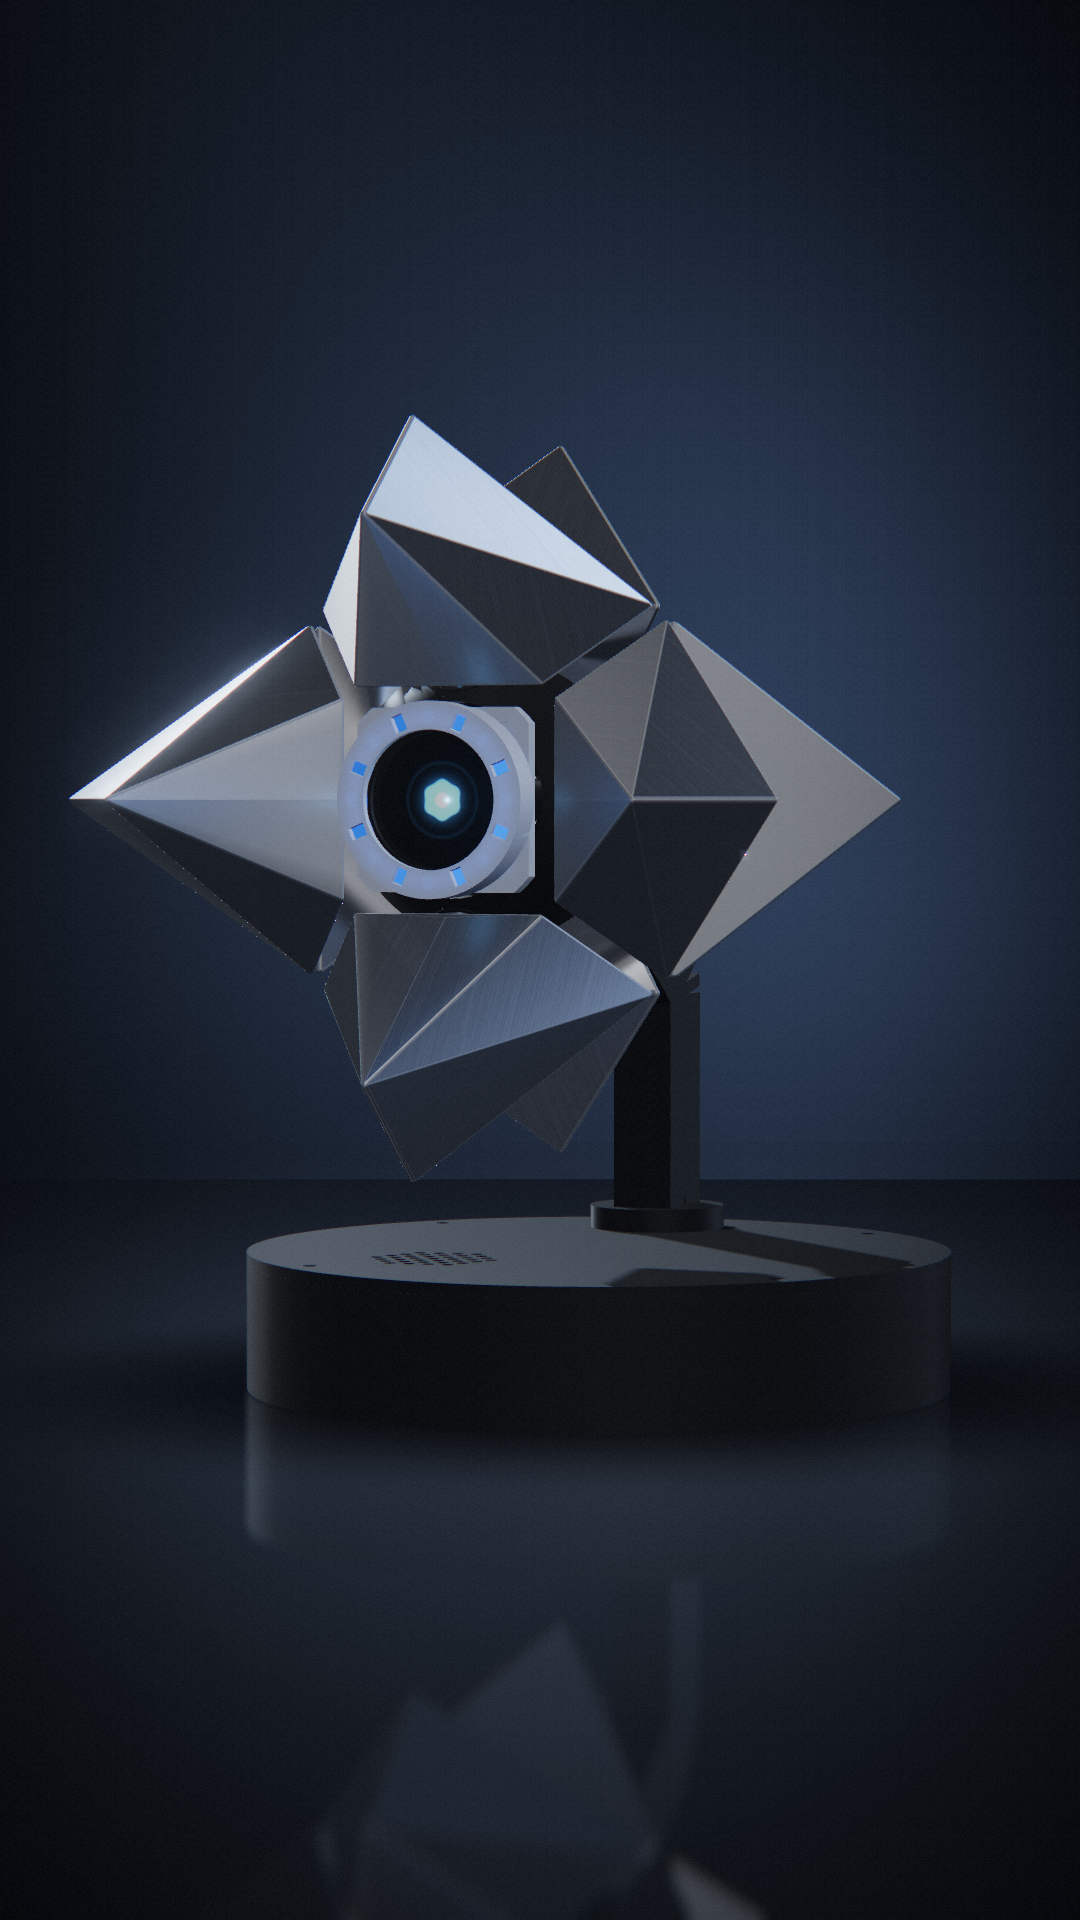
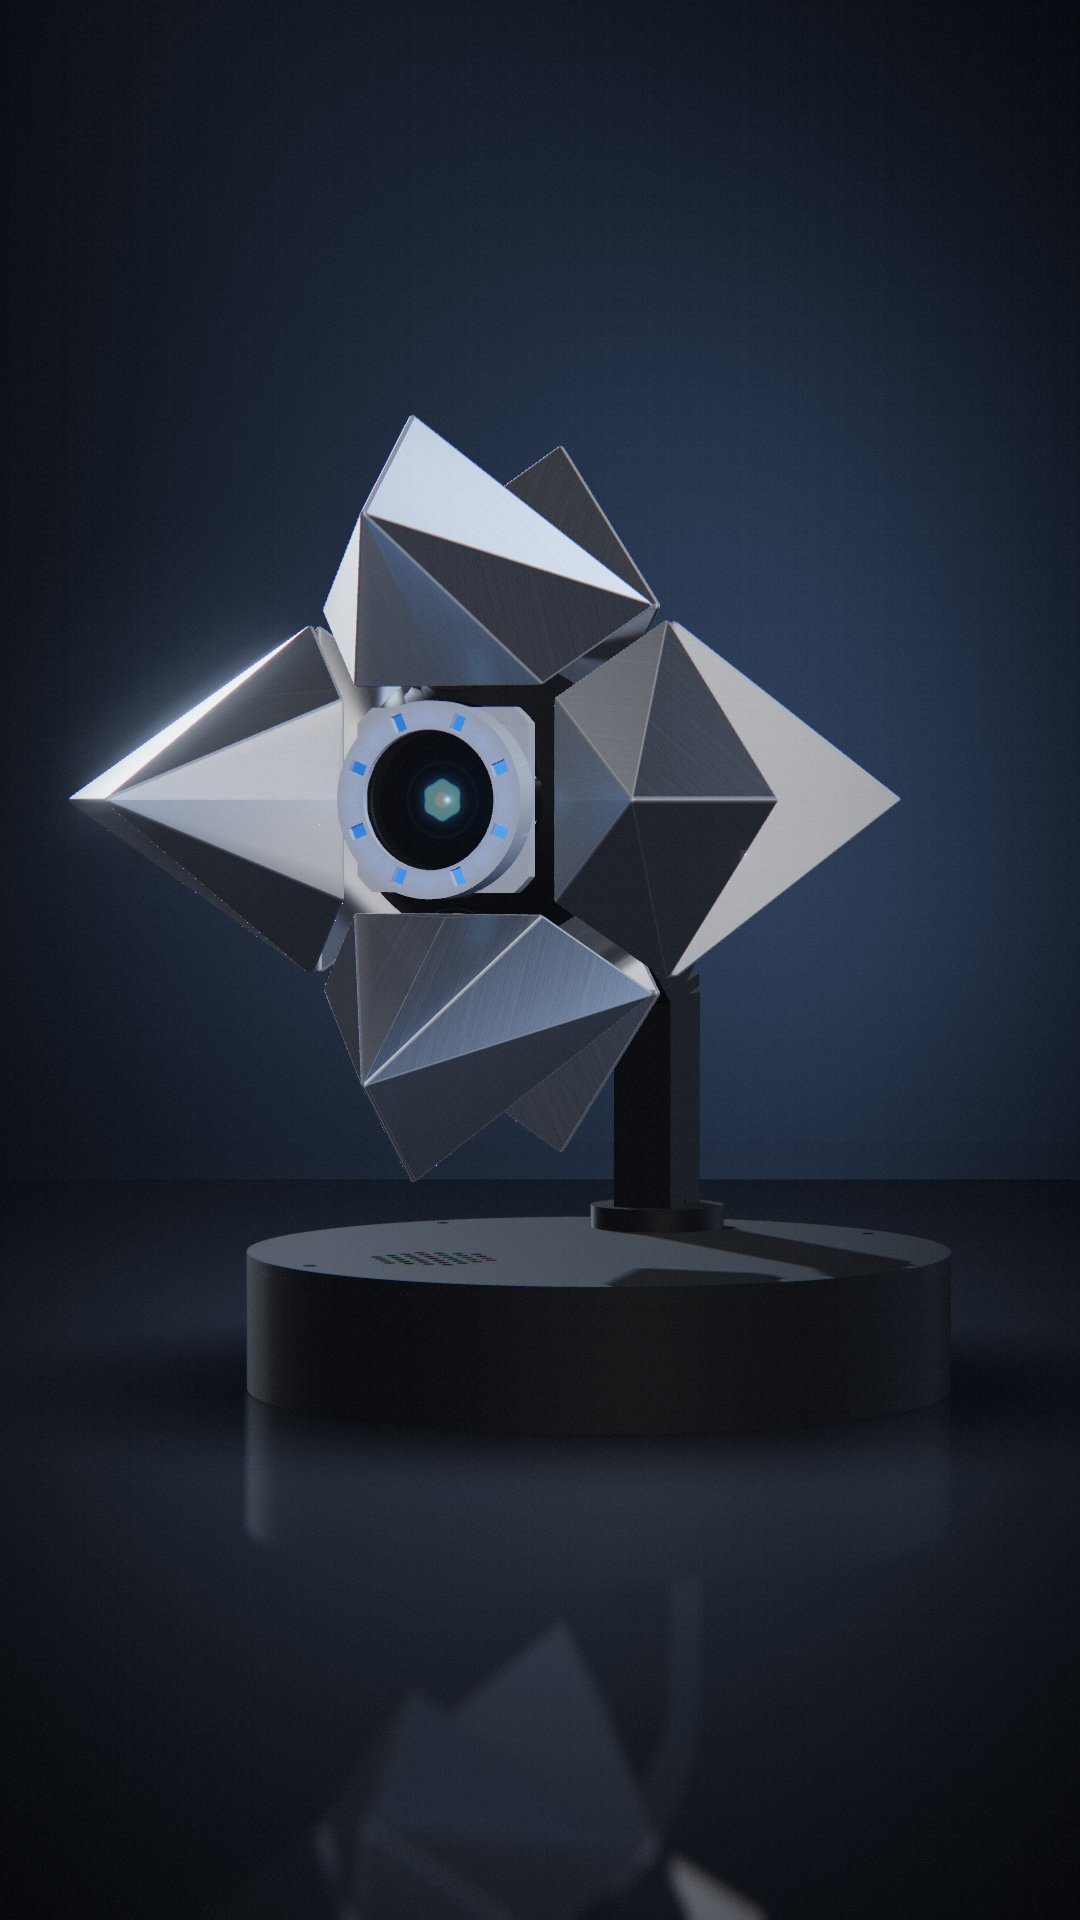
Reel: hexagon iris reads, visible springs, lighter shell, eye close-up still
Claude-Session: https://claude.ai/code/session_01NCmouBxUu5VMpQ8bVSWZ3F

diff --git a/reel/src/ghost.js b/reel/src/ghost.js
@@ -89,15 +89,16 @@ function brushedUV(geometry) {
   geometry.setAttribute('uv', new THREE.BufferAttribute(uv, 2));
 }
 
-function springGeometry(coils = 6.5, radius = 5.7, wire = 0.62) {
-  // unit-length helix along +z; scaled in z to the live spring length
+const SPRING_L = 15;
+function springGeometry(coils = 6.5, radius = 5.7, wire = 0.55) {
+  // helix along +z at a nominal 15 mm, scaled in z to the live spring length (9 mm shut, 21 mm open)
   class Helix extends THREE.Curve {
     getPoint(u, target = new THREE.Vector3()) {
       const a = u * coils * Math.PI * 2;
-      return target.set(Math.cos(a) * radius, Math.sin(a) * radius, u);
+      return target.set(Math.cos(a) * radius, Math.sin(a) * radius, u * SPRING_L);
     }
   }
-  return new THREE.TubeGeometry(new Helix(), 220, wire, 8, false);
+  return new THREE.TubeGeometry(new Helix(), 260, wire, 8, false);
 }
 
 // ---------------------------------------------------------------------------------------
@@ -107,7 +108,7 @@ export function buildGhost({ meta, geo }) {
 
   // ---- materials ----------------------------------------------------------------------
   const silver = new THREE.MeshPhysicalMaterial({
-    color: 0xd3d6db, metalness: 1.0, roughness: 0.66, roughnessMap: brushed,
+    color: 0xe4e6ea, metalness: 1.0, roughness: 0.66, roughnessMap: brushed,
     anisotropy: 0.5, envMapIntensity: 1.0,
   });
   const black = new THREE.MeshPhysicalMaterial({ color: 0x111113, metalness: 0.0, roughness: 0.62, envMapIntensity: 0.9 });
@@ -230,7 +231,7 @@ export function buildGhost({ meta, geo }) {
       fins[i].position.copy(d).multiplyScalar(travel);
       pins[i].position.copy(d).multiplyScalar(meta.pin_cap_closed + travel);
       const r0 = meta.core_r - 0.3, r1 = meta.core_r + meta.closed_gap + meta.spring_seat_depth + travel;
-      springs[i].position.copy(d).multiplyScalar(r0); springs[i].scale.set(1, 1, r1 - r0);
+      springs[i].position.copy(d).multiplyScalar(r0); springs[i].scale.set(1, 1, (r1 - r0) / SPRING_L);
     }
     ring.position.set(0, 0, THREE.MathUtils.lerp(meta.ring_z_closed, meta.ring_z_open, f) - meta.ring_t / 2);
   }
@@ -259,7 +260,7 @@ export function buildGhost({ meta, geo }) {
     u.uTime.value = t; u.uCol.value.copy(cur.col); u.uPower.value = st.eyePower;
     const prev = renderer.getRenderTarget();
     renderer.setRenderTarget(eyeRT); renderer.render(eyeScene, eyeCam); renderer.setRenderTarget(prev);
-    screenMat.emissiveIntensity = 1.3 * st.glow;
+    screenMat.emissiveIntensity = 0.62 * st.glow;
     // lights.py: k = 0.6 + 0.15*sin(t*1.6 + phase) for the resting moods
     for (let i = 0; i < 16; i++) {
       const k = (0.6 + 0.15 * Math.sin(t * 1.6 + (i / 16) * Math.PI * 2)) * st.ledLevel;
@@ -268,7 +269,7 @@ export function buildGhost({ meta, geo }) {
     bezelMat.emissive.copy(cur.led); bezelMat.emissiveIntensity = 0.8 * st.ledLevel * st.glow;
     eyeLight.color.copy(cur.led).lerp(cur.col, 0.5);
     eyeLight.intensity = 1.0e4 * st.glow * (0.55 * st.ledLevel + 0.45 * st.eyePower);
-    wellLight.color.copy(cur.col); wellLight.intensity = 260 * st.glow * st.eyePower;
+    wellLight.color.copy(cur.col); wellLight.intensity = 150 * st.glow * st.eyePower;
   }
 
   setOpen(0); setMood('neutral', 1);

diff --git a/reel/src/studio.js b/reel/src/studio.js
@@ -30,7 +30,7 @@ export function buildEnvironment(renderer, k = 1) {
   add(4, 16, 20, [-13, 5, -10], [0.86, 0.93, 1.0], 0.3);     // rim, back left: the strong one
   add(4, 12, 5.0, [14, 3, -8], [0.80, 0.90, 1.0], 0.3);      // kicker, back right
   add(18, 12, 0.85, [1, 15, 3], [1.0, 0.98, 0.96], 0.45);    // overhead softbox
-  add(24, 20, 0.42, [7, 2, 16], [1.0, 1.0, 1.0], 0.45);      // front fill, big and dim
+  add(24, 20, 0.72, [7, 2, 16], [1.0, 1.0, 1.0], 0.45);      // front fill, big and dim
   add(1.4, 14, 2.6, [-12, 0, 11], [1.0, 0.97, 0.94], 0.3);   // thin strip: edge pings on the bevels
   add(1.2, 12, 1.6, [13, 1, 10], [0.9, 0.95, 1.0], 0.3);     // its twin on the right
   add(30, 5, 0.45, [0, -7, 12], [0.7, 0.8, 1.0], 0.4);       // low bounce off the floor
@@ -125,7 +125,7 @@ export function buildStudio(renderer, scene, { floorY, width, height }) {
   rim.shadow.bias = -0.0006; rim.shadow.normalBias = 0.6;
   const kicker = new THREE.DirectionalLight(0xbfd8ff, 0.9);
   kicker.position.set(520, 180, -380); kicker.target.position.set(0, -20, -30);
-  const fill = new THREE.DirectionalLight(0xfff4ea, 0.5);
+  const fill = new THREE.DirectionalLight(0xfff4ea, 0.7);
   fill.position.set(260, 220, 600); fill.target.position.set(0, -30, 0);
   const top = new THREE.DirectionalLight(0xffffff, 0.3);
   top.position.set(40, 700, 60); top.target.position.set(0, -100, -40);

diff --git a/reel/still.html b/reel/still.html
@@ -36,9 +36,11 @@ const LOOKS = {
   // pre-drop mood: shell shut, glow kept faint
   closed: { open: 0, mood: 'neutral', eyePower: 0.6, ledLevel: 0.4, glow: 0.6, bloom: 0.4, exposure: 1.0, pan: -6, tilt: 0 },
   // post-drop hero: shell sprung open 12 mm, eye and ring at full
-  open: { open: 1, mood: 'excited', eyePower: 1, ledLevel: 1, glow: 1.0, bloom: 0.5, exposure: 1.0, pan: -6, tilt: 2 },
+  open: { open: 1, mood: 'excited', eyePower: 1, ledLevel: 1, glow: 1.0, bloom: 0.42, exposure: 1.0, pan: -6, tilt: 2 },
 };
-const L = LOOKS[state];
+const L = { ...LOOKS[state] };
+for (const k of ['pan', 'tilt', 'bloom', 'glow', 'eyePower', 'ledLevel']) if (q.has(k)) L[k] = +q.get(k);
+if (q.has('mood')) L.mood = q.get('mood');
 ghost.setOpen(L.open); ghost.setMood(L.mood, 1); ghost.setGlow(L);
 ghost.pan.rotation.y = THREE.MathUtils.degToRad(L.pan); ghost.tilt.rotation.x = THREE.MathUtils.degToRad(-L.tilt);
 post.bloom.strength = L.bloom; post.grade.uniforms.uExposure.value = L.exposure;
